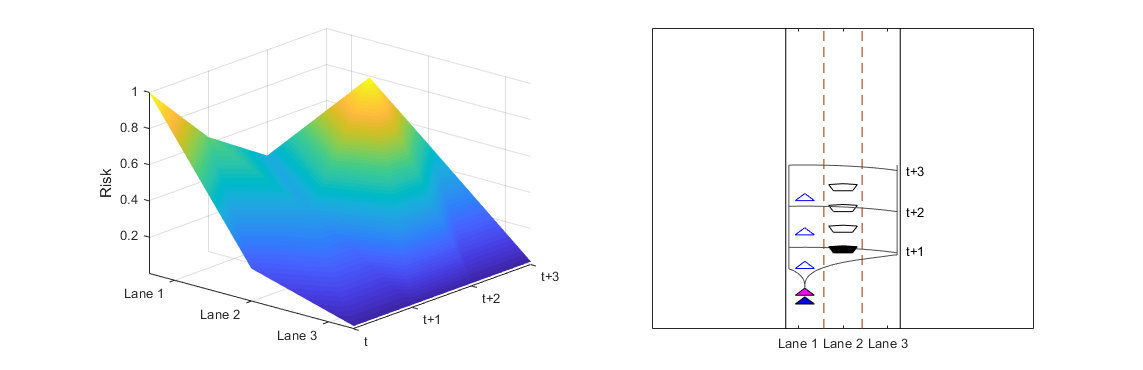
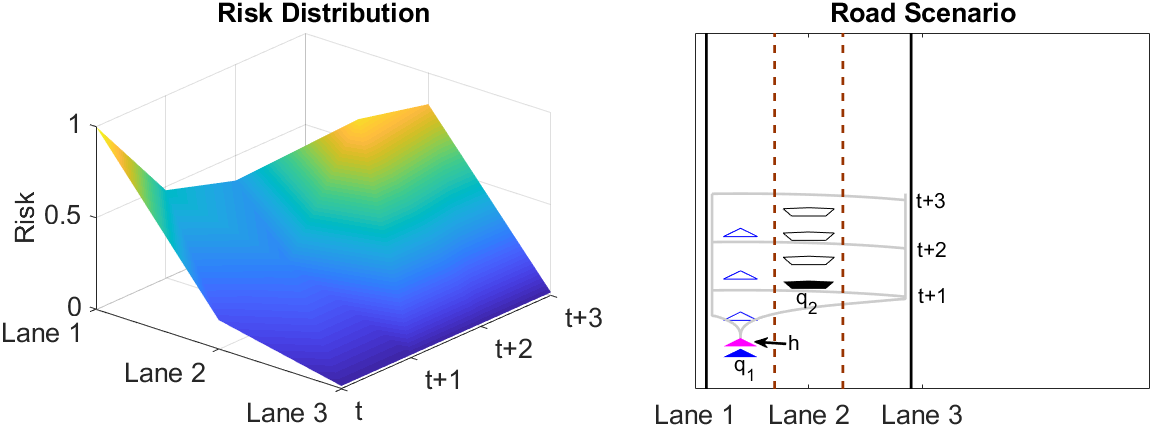
Updates from ShareLaTeX

diff --git a/ACC.tex b/ACC.tex
@@ -680,7 +680,7 @@ Because the distance is reduced at each step, the vehicle continuously enters sa
 The simulations for this work were done in Matlab. Different simulations were run for each part of the approach depicted in Section \ref{sec:approach}. We first discuss how the models were trained, and we validate those results for both velocity and lateral positions (lanes). This is followed by showing an example of fitting one model given multiple pre-trained models and a new system to observe. Lastly we demonstrate the risk estimates, and the assistance given to the user's actions, in order to verify that we are able to avoid collisions.
 
 \subsection{Training Models}
-In order to train the models, we used a workspace featuring $6$ stationary obstacles. A test vehicle drove through this workspace, while avoiding these obstacles, and it was observed for a training period of 700 iterations. In this period, the framework discussed in Section \ref{sec:fmwk} was executed and $\mathcal P$ and $\mathcal B$ matrices were generated. In order to validate the effectiveness of the generated matrices, we tested the sample over another period of the same length with $9$ obstacles. In verifying the results for velocity, we used forward position, which is calculated using the relationship in \eqref{eq:dumpos}. The resulting root mean squared error (RMSE) for forward position estimates was $1.3927$m. The results for velocity prediction are shown in Fig.~\ref{fig:train1}, where the validation begins after the vertical line labeled ``End Training Set". 
+In order to train the models, we used a workspace featuring $6$ stationary obstacles. A test vehicle drove through this workspace, while avoiding these obstacles, and it was observed for a training period of 700 iterations. In this period, the framework discussed in Section \ref{sec:fmwk} was executed and $\mathcal P$ and $\mathcal B$ matrices were generated. In order to validate the effectiveness of the generated matrices, we tested the sample over another period of the same length with $9$ obstacles. In verifying the results for velocity, we used forward position, which is calculated using $x_h(t) = v_h(t)\delta t$. The resulting root mean squared error (RMSE) for forward position estimates was $1.3927$m. The results for velocity prediction are shown in Fig.~\ref{fig:train1}, where the validation begins after the vertical line labeled ``End Training Set". 
 
 \begin{figure}[ht]
 \includegraphics[width=0.48\textwidth]{fig/train1.png}
@@ -694,9 +694,6 @@ In addition to velocity, we also measure the accuracy of our predictions regardi
 \caption{The lane changes of the actual vehicle (red) are shown. After the training set, a prediction is made and the lateral positions/lane changes of the estimate is shown (blue dashed).} \label{fig:train2}
 \end{figure}
 
-
-
-
 \subsection{Fitting Models}
 
 In this section, we show that we are able to fit pre-trained models to a new vehicle online. The behaviors of this vehicle are randomly generated and used to find the appropriate model. In order to determine the appropriate model, we use \eqref{eq:pnorm} with each of the three pre-trained models. We obtain and display the errors in Fig.~\ref{fig:error}.
@@ -707,12 +704,10 @@ In this section, we show that we are able to fit pre-trained models to a new veh
 \end{figure}
 
 At each iteration, we use the model with the lowest error for future predictions. The selected model changes frequently at the start of run-time and converges to one model by the end of run-time. The selected model at each iteration is shown in Fig.~\ref{fig:select}. In this case, we converge to Model $3$ in approximately 300 iterations.
-
 \begin{figure}[ht]
     \includegraphics[width=0.48\textwidth]{fig/modelselect.png}
     \caption{The selected model at each iteration} \label{fig:select}
 \end{figure}
-
 Using the selected model, we are able to make predictions for every iteration of run-time. In Fig.~\ref{fig:fwd}, we show the accuracy of the fit for velocity/forward position over 1400 iterations. The RMSE of this trial was $3.1423$m. In Fig.~\ref{fig:lanchan}, we show the the predictions made that pertain to lane changes and following distance. The RMSE of the predictions as compared to the actual actions was $3.5421$m. The RMSE values obtained for each of these tests suggest that the prediction is reliable. In addition, it was verified that the model chosen was the closest to the randomly generated behaviors, by examining the specific results of the randomization.
 
 
@@ -725,8 +720,6 @@ Using the selected model, we are able to make predictions for every iteration of
     \includegraphics[width=0.48\textwidth]{fig/lanefit.png}
     \caption{The lane changes of the actual vehicle (red) are shown. The lane change predictions of the best-fit are shown (blue dashed).} \label{fig:lanchan}
 \end{figure}
- 
- 
 
  
 \subsection{Assistive Planning and Control}
@@ -759,20 +752,20 @@ In Fig.~\ref{fig:noassist}, we show a scenario in which the user was unassisted.
 \centering
 \begin{subfigure}{.54\linewidth}
   \centering
-  \includegraphics[width=\linewidth]{fig/critpt_rd.png}
+  \includegraphics[width=\linewidth]{fig/noassist_rd.png}
   \caption{Risk Distribution}
-  \label{fig:critptrd}
+  \label{fig:noasstrd}
 \end{subfigure}%
 \begin{subfigure}{.46\linewidth}
   \centering
-  \includegraphics[width=\linewidth]{fig/critpt_rs.png}
+  \includegraphics[width=\linewidth]{fig/noassist_rs.png}
   \caption{Road Scenario}
-  \label{fig:critptrs}
+  \label{fig:noasstrs}
 \end{subfigure}
-\caption{Critical Point - Risk Distribution and Road Scenario} \label{fig:noassist}
+\caption{Unassisted - Risk Distribution and Road Scenario} \label{fig:noassist}
 \end{figure}
 
-In Fig.~\ref{fig:assist}, we a show a scenario in which the user was assisted. The user input was modeled the same as in Fig.~\ref{fig:noassist}, but in this case, the assistive input was taken into account, as the risk surpassed $r_{\max}$. With assistive input, both lane and velocity were changed in order to minimize risk at every future time $t$ up to $t+H$.
+In Fig.~\ref{fig:assist}, we a show a scenario in which the user was assisted. The user input was modeled the same as in Fig.~\ref{fig:noassist}, but in this case, the assistive input was taken into account, as the risk surpassed $r_{\max}$. With assistive input, both lane and velocity were changed in order to minimize risk at $t+1$.
 
 \begin{figure}[H]
 \centering
@@ -788,7 +781,7 @@ In Fig.~\ref{fig:assist}, we a show a scenario in which the user was assisted. T
   \caption{Road Scenario}
   \label{fig:assistrs}
 \end{subfigure}
-\caption{Assisted Control - Risk Distribution and Road Scenario} \label{fig:assist}
+\caption{Assisted - Risk Distribution and Road Scenario} \label{fig:assist}
 \end{figure}
 
  In the situation depicted in Fig.~\ref{fig:assist}, we are able to minimize risk and avoid collisions, thereby ensuring that our HAV is being operated safely.
